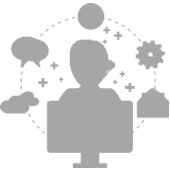
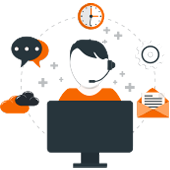
Subida de img de servicios

diff --git a/css/style.css b/css/style.css
@@ -1,3 +1,7 @@
+
+
+
+
 /*-------------------------------------------------------------------------------------------------------------------------------*/
 /*This is main CSS file that contains custom style rules used in this template*/
 /*-------------------------------------------------------------------------------------------------------------------------------*/
@@ -175,7 +179,7 @@
 	/*content wrapper*/
 	#content-wrapper{padding-top: 122px; position: relative;}
 	/*body class with moved header*/
-	body.header-moved #content-wrapper{padding-top: 244px;}
+	/*body.header-moved #content-wrapper{padding-top: 244px;}*/
 	/*container to display above header*/
 	.container-above-header{position: absolute; width: 100%; left: 0; top: 0;}
 	/*text styles*/
@@ -239,7 +243,7 @@
 	.menu-entry:hover .submenu-icon:before, .menu-entry.active .submenu-icon:before{background-color: #ff6c3a;}
 
 	/*body class with moved header*/
-	body.header-moved header{position: absolute; top: 122px;}
+	body.header-moved header{position: absolute; top: 60px;}
 	body.header-moved header.fixed-top{position: fixed; top: 0;}
 
 	/*reduced header*/
@@ -634,7 +638,7 @@
 /* 16 - BLOCK "TYPE 9" */
 /*-------------------------------------------------------------------------------------------------------------------------------*/
 	.block.type-9{background: #232c3b; padding: 0; height: 122px;}
-	.block.type-9 .entry{padding-top: 45px;}
+	.block.type-9 .entry{padding-top: 15px;}
 	.block.type-9 .title{ display: inline-block; font-size: 28px; line-height: 32px; color: #ff6c3a; font-family: 'black', sans-serif, Arial; margin-right: 15px;}
 	.block.type-9 .text{font-size: 20px; line-height: 24px; color: #fff; display: inline-block;}
 	.block.type-9 .text span{color: #ff6c3a;}
@@ -1367,3 +1371,10 @@ footer .social-icon:before, .menu-entry div, .menu-entry .submenu-icon span, .su
 	BOX SIZE STYLES
 	===============  */
 	.box-size{width: 100%; height: 100%; position: absolute; left: 0; top: 0;}
+
+
+
+
+.entry{
+	padding-top: 27px;
+}

diff --git a/index.php b/index.php
@@ -22,10 +22,10 @@
                                         <div class="slide-block nopadding col-sm-6">
                                             <div class="vertical-align">
                                                 <div class="content text-entry">
-                                                    <div class="price">From <b>$2</b><small>/per month</small></div>
+                                                    <div class="price">Desde <b>$82.500</b><small> Mensuales</small></div>
                                                     <h3 class="title">Paginas Web</h3>
-                                                    <div class="text">Integer faucibus, dui quis pellentesque vestibulum, nulla ante aliquet turpis, in consectetur ex dui vitae erat in eleifend eros</div>
-                                                    <a class="button" href="hosting.html">learn more</a>
+                                                    <div class="text">Crea con nosotros páginas web Personales, Empresariales, Ecommerce. Con diseños a la medida de tus necesidades.</div>
+                                                    <a class="button" href="hosting.html">Empecemos</a>
                                                 </div>
                                             </div>
                                         </div>
@@ -46,10 +46,10 @@
                                         <div class="slide-block nopadding col-sm-6">
                                             <div class="vertical-align">
                                                 <div class="content text-entry">
-                                                    <div class="price">From <b>$2</b><small>/per month</small></div>
-                                                    <h3 class="title">Marketing</h3>
-                                                    <div class="text">Integer faucibus, dui quis pellentesque vestibulum, nulla ante aliquet turpis, in consectetur ex dui vitae erat in eleifend eros, dui quis pellentesque vestibulum,</div>
-                                                    <a class="button" href="hosting.html">learn more</a>
+                                                    <div class="price">Campañas desde <b>$250.000</b><small> Mensuales</small></div>
+                                                    <h3 class="title">Posicionamiento</h3>
+                                                    <div class="text">Mejora la presencia de tu marca o empresa con estrategias organicas (Seo) e inorganicas (Adwords, Facebook Ads)</div>
+                                                    <a class="button" href="hosting.html">Empecemos</a>
                                                 </div>
                                             </div>
                                         </div>
@@ -70,10 +70,10 @@
                                         <div class="slide-block nopadding col-sm-6">
                                             <div class="vertical-align">
                                                 <div class="content text-entry">
-                                                    <div class="price">From <b>$2</b><small>/per month</small></div>
+                                                    <div class="price">Desde <b>$20.000</b><small> Mensual</small></div>
                                                     <h3 class="title">Hosting</h3>
-                                                    <div class="text">Integer faucibus, dui quis pellentesque vestibulum, nulla ante aliquet turpis, in consectetur ex dui vitae erat in eleifend eros, dui quis pellentesque vestibulum,</div>
-                                                    <a class="button" href="hosting.html">learn more</a>
+                                                    <div class="text">Contamos con la mejor solución de alojamiento web para tu empresa. Con centro de datos en todas partes del mundo.</div>
+                                                    <a class="button" href="hosting.html">Empecemos</a>
                                                 </div>
                                             </div>
                                         </div>
@@ -94,10 +94,10 @@
                                         <div class="slide-block nopadding col-sm-6 col-sm-pull-6">
                                             <div class="vertical-align">
                                                 <div class="content text-entry">
-                                                    <div class="price">From <b>$2</b><small>/per month</small></div>
+                                                    <div class="price">Tu dominio<b> Gratis</b><small></small></div>
                                                     <h3 class="title">Dominio</h3>
-                                                    <div class="text">Integer faucibus, dui quis pellentesque vestibulum, nulla ante aliquet turpis, in consectetur ex dui vitae erat in eleifend eros, dui quis pellentesque vestibulum,</div>
-                                                    <a class="button" href="#">learn more</a>
+                                                    <div class="text">Sabemos de imoportancia de iniciar con un gran nombre en la internet, por eso siempre te daremos el dominio gratis*</div>
+                                                    <a class="button" href="#">Empecemos</a>
                                                 </div>
                                             </div>
                                         </div>
@@ -114,19 +114,19 @@
                         <div class="row">
                             <div class="tab-entry active col-md-3">
                                 <div class="title">Paginas Web</div>
-                                <div class="text">mattis gravida risus sed gravida</div>
+                                <div class="text">HTML5, CSS3, JS, WORDPRESS</div>
                             </div>
                             <div class="tab-entry col-md-3">
-                                <div class="title">Marketing</div>
-                                <div class="text">ultrices nulla semper quis</div>
+                                <div class="title">Posicionamiento</div>
+                                <div class="text">GOOGLE, FACEBOOK, INSTAGRAM, TWITTER</div>
                             </div>
                             <div class="tab-entry col-md-3">
                                 <div class="title">Hosting</div>
-                                <div class="text">bibendum eget nunc fermentum</div>
+                                <div class="text">COMPARTIDO, VPS, DEDICADO</div>
                             </div>
                             <div class="tab-entry col-md-3">
                                 <div class="title">Dominio</div>
-                                <div class="text">posuere blandit orci sed porttitor</div>
+                                <div class="text">.COM, .CO, .NET, .COM.CO, .ORG </div>
                             </div>
                         </div>
                     </div>
@@ -173,7 +173,7 @@
                     <div class="row wow fadeInDown">
                         <div class="block-header col-md-6 col-md-offset-3 col-sm-12 col-sm-offset-0">
                             <h2 class="title">Servicios</h2>
-                            <div class="text">Integer faucibus, dui quis pellentesque vestibulum, nulla ante aliquet turpis, in consectetur ex dui vitae erat in eleifend eros</div>
+                            <div class="text">Nuestro desarrollos integran las mejores tecnologias a nivel web, para satifacer tus necesidades.</div>
                         </div>
                     </div>
 
@@ -182,28 +182,28 @@
                             <img src="img/icon-1.png" alt=""/>
                             <div class="content">
                                 <h3 class="title">Diseño de logo</h3>
-                                <div class="text">Duis posuere blandit orci sed tincidunt. Curabitur porttitor nisi ac nunc ornare, in fringilla nisl blandit.</div>
+                                <div class="text">Tu marca es la cara que representa y diferencia tu empresa por eso es necesario tenerla siempre presente.</div>
                             </div>
                         </div>
                         <div class="icon-entry col-xs-12 col-sm-6  col-md-4">
                             <img src="img/icon-2.png" alt=""/>
                             <div class="content">
                                 <h3 class="title">Redes Sociales</h3>
-                                <div class="text">Duis posuere blandit orci sed tincidunt. Curabitur porttitor nisi ac nunc ornare, in fringilla nisl blandit.</div>
+                                <div class="text">Siempre es necesario que tu producto o servicio este visible por medio de la herramientas como Facebook, Instagram, Twitter. </div>
                             </div>
                         </div>
                         <div class="icon-entry col-xs-12 col-sm-6  col-md-4">
                             <img src="img/icon-3.png" alt=""/>
                             <div class="content">
                                 <h3 class="title">Correos Corporativos</h3>
-                                <div class="text">Duis posuere blandit orci sed tincidunt. Curabitur porttitor nisi ac nunc ornare, in fringilla nisl blandit.</div>
+                                <div class="text">No puede faltar en tu empresa comunicarte por medio de tus propias cuentas de correo como lo hacen los grandes.</div>
                             </div>
                         </div>
                         <div class="icon-entry col-xs-12 col-sm-6  col-md-4">
                             <img src="img/icon-4.png" alt=""/>
                             <div class="content">
                                 <h3 class="title">Posicionamiento SEO</h3>
-                                <div class="text">Duis posuere blandit orci sed tincidunt. Curabitur porttitor nisi ac nunc ornare, in fringilla nisl blandit.</div>
+                                <div class="text">Se visible en los principales resultados de busqueda de Google y aunmentaras las ventas de tu servicio o productos.</div>
                             </div>
                         </div>
                         <div class="icon-entry col-xs-12 col-sm-6  col-md-4">

diff --git a/header.php b/header.php
@@ -8,7 +8,7 @@
     <link href="css/idangerous.swiper.css" rel="stylesheet" type="text/css" />
     <link href="css/style.css" rel="stylesheet" type="text/css" />
     <link href="css/animate.css" rel="stylesheet" type="text/css" />
-    <link rel="shortcut icon" href="img/favicon.ico" />
+    <link rel="shortcut icon" href="img/favicon.png" />
   	<title>Montca</title>
 </head>
 <body class="header-moved">
@@ -135,8 +135,8 @@
             <div class="block type-9">
                 <div class="container">
                     <div class="entry">
-                        <h3 class="title wow fadeInLeft">Hot Propouse!</h3>
-                        <div class="text wow fadeInRight">Only <b>10 Days</b> Your Personal Dedicated Server <span><b>$3</b><small>/per mounth</small></span></div>
+                        <h3 class="title wow fadeInLeft">Promoción</h3>
+                        <div class="text wow fadeInRight"> <b>10% Descuento</b> para nuevos clientes  <!-- <span><b></b><small>/</small></span> --></div>
                     </div>
                 </div>
             </div>
